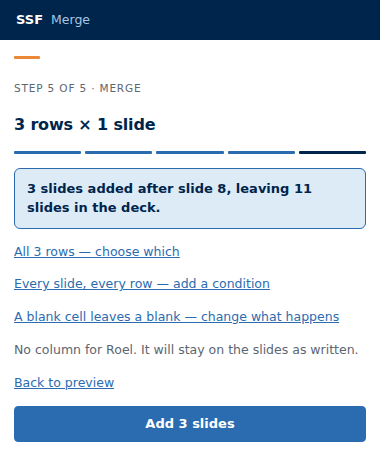
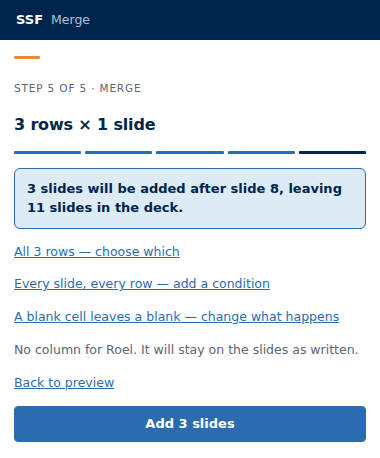
Refresh the manual's pictures onto today's pane copy (#169)
Two of the manual's screenshots were a release behind, and a screenshot is
the one thing in a document a reader cannot tell is lying — they read the
numbers off it and type them back when reporting a bug that does not exist.

Regenerated all eight with `scripts/manual-shots.mjs` against a local vite.
Three moved:

- `step-5-merge.png` — the forecast is in the future tense above an unpressed
  button. "3 slides will be added after slide 8, leaving 11 slides in the
  deck", where it read "3 slides added".
- `field-with-no-column.png` — the same forecast, on the other screen that
  renders step 5.
- `step-4-preview.png` — the preview card carries "Remove the preview" and the
  primary below it reads "On to the merge", where there was one primary
  reading "Remove the preview".

The other five came back byte-identical.

In docs/MANUAL.md: the HTML comment saying the step-5 picture was a release
behind is deleted, the step-5 alt text quotes the new forecast, and the step-4
alt text gains the two buttons its picture now shows. No button label the
prose names was removed.

No source, no behaviour. 1099 tests pass; typecheck, eslint and prettier clean.

Changed region(s): [[0.0579, 0.3974, 0.8974, 0.4891]]

diff --git a/docs/MANUAL.md b/docs/MANUAL.md
@@ -155,7 +155,7 @@ braces are probably curly quotes — retype them.
 
 Press **Preview the first row**.
 
-![Step 4 of the pane: a card reading "Slide 9 is a preview of the first row. Your template is untouched"](images/step-4-preview.png)
+![Step 4 of the pane: a card reading "Slide 9 is a preview of the first row. Your template is untouched", with "Remove the preview" on the card and a button reading "On to the merge" below it](images/step-4-preview.png)
 
 Ada's row is merged and the result put at the end of your deck, as slide 9. Go
 and look at it. **This is not a mock-up** — it is the ordinary merge run over
@@ -171,14 +171,7 @@ press Preview, after which the button above does the same job.
 
 ### Step 5 — Merge
 
-<!-- These pictures were taken before the forecast moved to the future tense, so
-     this one still reads "3 slides added" where the pane now says "3 slides
-     will be added". The alt text describes the picture as it actually stands
-     rather than as the pane now reads, because a caption that disagrees with
-     the image under it is worse than a picture one release behind. Refresh them
-     with `scripts/manual-shots.mjs` against a local vite. -->
-
-![Step 5 of the pane: "3 rows × 1 slide", a forecast reading "3 slides added after slide 8, leaving 11 slides in the deck", and a button reading "Add 3 slides"](images/step-5-merge.png)
+![Step 5 of the pane: "3 rows × 1 slide", a forecast reading "3 slides will be added after slide 8, leaving 11 slides in the deck", and a button reading "Add 3 slides"](images/step-5-merge.png)
 
 The forecast above the button says where the slides land and how big the deck
 will be afterwards, before you press anything. The button carries the count —
